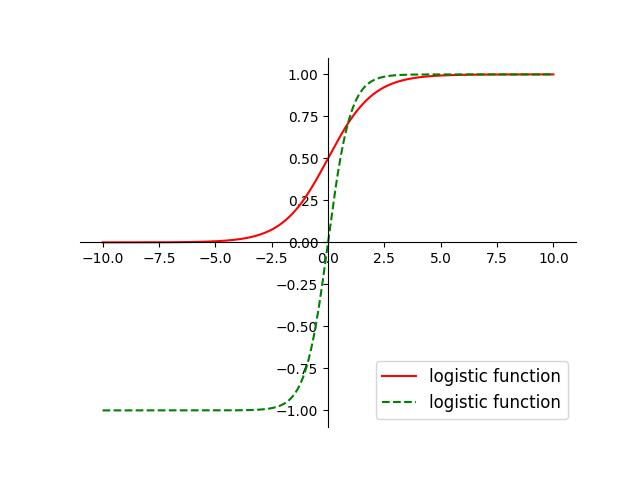
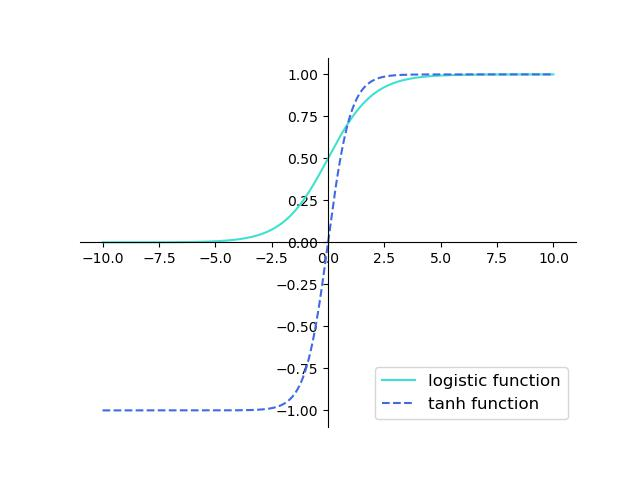
20240813

diff --git a/Paddle/project01/nndl/activation.py b/Paddle/project01/nndl/activation.py
@@ -5,21 +5,12 @@ import paddle
 import matplotlib.pyplot as plt
 
 
-# logistic函数
-def logistic(x):
-    return 1 / (1 + paddle.exp(-x))
-
-
-# tanh函数
-def tanh(x):
-    return (paddle.exp(x) - paddle.exp(-x)) / (paddle.exp(x) + paddle.exp(-x))
-
-
-if __name__ == '__main__':
+# 显示图像
+def plt_fn(fig1, fig2):
     x = paddle.linspace(-10, 10, 10000)
     plt.figure()         # 创建新图像
-    plt.plot(x.tolist(), logistic(x).tolist(), color='r', label='logistic function')
-    plt.plot(x.tolist(), tanh(x).tolist(), color='g', linestyle='--', label='logistic function')
+    plt.plot(x.tolist(), fig1(x).tolist(), color='#40E0D0', label=f'{fig1.__name__} function')
+    plt.plot(x.tolist(), fig2(x).tolist(), color='#4169E1', linestyle='--', label=f'{fig2.__name__} function')
     ax = plt.gca()       # 获取当前坐标轴对象
     ax.spines['top'].set_color('none')       # 取消上侧坐标轴
     ax.spines['right'].set_color('none')     # 取消右侧坐标轴
@@ -27,9 +18,91 @@ if __name__ == '__main__':
     ax.yaxis.set_ticks_position('left')      # 设置默认的y坐标轴
     ax.spines['left'].set_position(('data', 0))     # 设置y轴起点为0
     ax.spines['bottom'].set_position(('data', 0))   # 设置x轴起点为0
-    plt.legend(loc='lower right', fontsize='large')    # 图例
-    plt.savefig('F:/Paddle/machine_learning/Paddle/project01/figure/T4.1-Logistic和tanh函数.jpg')     # 保存图片
+    plt.legend(loc='lower right', fontsize='medium')    # 图例
+    plt.savefig(f'T4.1-{fig1.__name__}和{fig2.__name__}函数.jpg')     # 保存图片
     plt.show()      # 显示图像
+
+
+# sigmoid型函数
+# -logistic函数
+def logistic(x):
+    return 1 / (1 + paddle.exp(-x))
+
+
+# -tanh函数
+def tanh(x):
+    return (paddle.exp(x) - paddle.exp(-x)) / (paddle.exp(x) + paddle.exp(-x))
+
+
+# if __name__ == '__main__':
+#     x = paddle.linspace(-10, 10, 10000)
+#     plt.figure()         # 创建新图像
+#     plt.plot(x.tolist(), logistic(x).tolist(), color='#40E0D0', label='logistic function')
+#     plt.plot(x.tolist(), tanh(x).tolist(), color='#4169E1', linestyle='--', label='tanh function')
+#     ax = plt.gca()       # 获取当前坐标轴对象
+#     ax.spines['top'].set_color('none')       # 取消上侧坐标轴
+#     ax.spines['right'].set_color('none')     # 取消右侧坐标轴
+#     ax.xaxis.set_ticks_position('bottom')    # 设置默认的x坐标轴
+#     ax.yaxis.set_ticks_position('left')      # 设置默认的y坐标轴
+#     ax.spines['left'].set_position(('data', 0))     # 设置y轴起点为0
+#     ax.spines['bottom'].set_position(('data', 0))   # 设置x轴起点为0
+#     plt.legend(loc='lower right', fontsize='large')    # 图例
+#     plt.savefig('T4.1-Logistic和tanh函数.jpg')     # 保存图片
+#     plt.show()      # 显示图像
+
+
+# -Hard_Logistic函数
+def hard_logistic(x):
+    return paddle.maximum(paddle.minimum((paddle.to_tensor(0.25 * x + 0.5)),
+                                         paddle.to_tensor(1.)), paddle.to_tensor(0.))
+
+
+# -Hard_Tanh函数
+def hard_tanh(x):
+    return paddle.maximum(paddle.minimum(x, paddle.to_tensor(1.)), paddle.to_tensor(-1.))
+
+
+if __name__ == '__main__':
+    plt_fn(hard_logistic, logistic)
+
+
+# 斜坡型函数
+# -ReLU函数
+def relu(x):
+    return paddle.maximum(x, paddle.to_tensor(0.))
+
+
+# -带泄露的ReLU函数
+def leaky_relu(x, negative_slope=0.1):
+    a1 = paddle.cast((x > 0), dtype='float32') * x
+    a2 = paddle.cast((x <= 0), dtype='float32') * negative_slope * x
+    return a1 + a2
+
+
+# if __name__ == '__main__':
+#     x = paddle.linspace(-10, 10, 10000)
+#     plt.figure()         # 创建新图像
+#     plt.plot(x.tolist(), relu(x).tolist(), color='r', label='ReLU function')
+#     plt.plot(x.tolist(), leaky_relu(x).tolist(), color='r', linestyle='--', label='Leaky_ReLU function')
+#     ax = plt.gca()       # 获取当前坐标轴对象
+#     ax.spines['top'].set_color('none')       # 取消上侧坐标轴
+#     ax.spines['right'].set_color('none')     # 取消右侧坐标轴
+#     ax.xaxis.set_ticks_position('bottom')    # 设置默认的x坐标轴
+#     ax.yaxis.set_ticks_position('left')      # 设置默认的y坐标轴
+#     ax.spines['left'].set_position(('data', 0))     # 设置y轴起点为0
+#     ax.spines['bottom'].set_position(('data', 0))   # 设置x轴起点为0
+#     plt.legend(loc='upper left', fontsize='medium')    # 图例
+#     plt.savefig('T4.1-ReLU和Leaky_ReLU函数.jpg')     # 保存图片
+#     plt.show()      # 显示图像
+
+
+# -ELU函数
+
+
+# -Softplus函数
+
+
+# -Swish函数
 
 
 # 定义Softmax函数
@@ -46,11 +119,11 @@ def softmax(X):
     return x_exp / partition
 
 
-# 观察softmax的计算方式
-if __name__ == '__main__':
-    X = paddle.to_tensor([[0.1, 0.2, 0.3, 0.4], [1, 2, 3, 4]])
-    predict = softmax(X)
-    print('softmax函数结果：', predict)
+# # 观察softmax的计算方式
+# if __name__ == '__main__':
+#     X = paddle.to_tensor([[0.1, 0.2, 0.3, 0.4], [1, 2, 3, 4]])
+#     predict = softmax(X)
+#     print('softmax函数结果：', predict)
 
 
 # 符号函数
@@ -58,6 +131,6 @@ def sign(X):
     return paddle.sign(X)
 
 
-if __name__ == '__main__':
-    X =paddle.to_tensor([[2.0, -3.0, 3.0], [-3.0, 4.0, -4.0]])
-    print('符号函数结果：', sign(X))
+# if __name__ == '__main__':
+#     X =paddle.to_tensor([[2.0, -3.0, 3.0], [-3.0, 4.0, -4.0]])
+#     print('符号函数结果：', sign(X))
